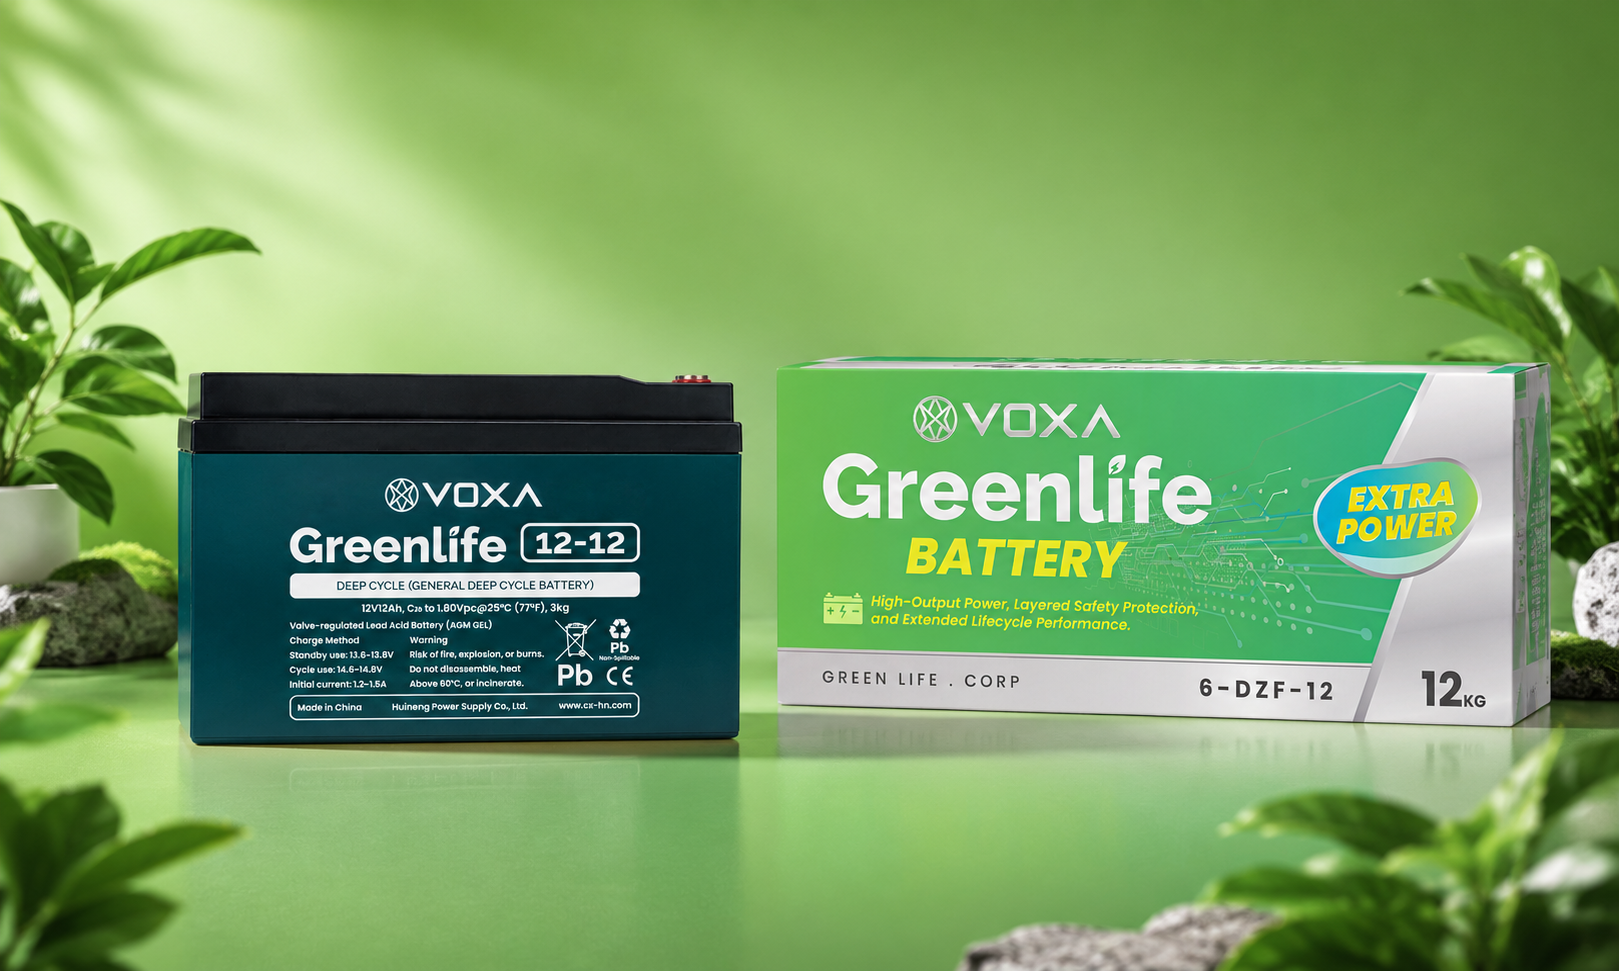
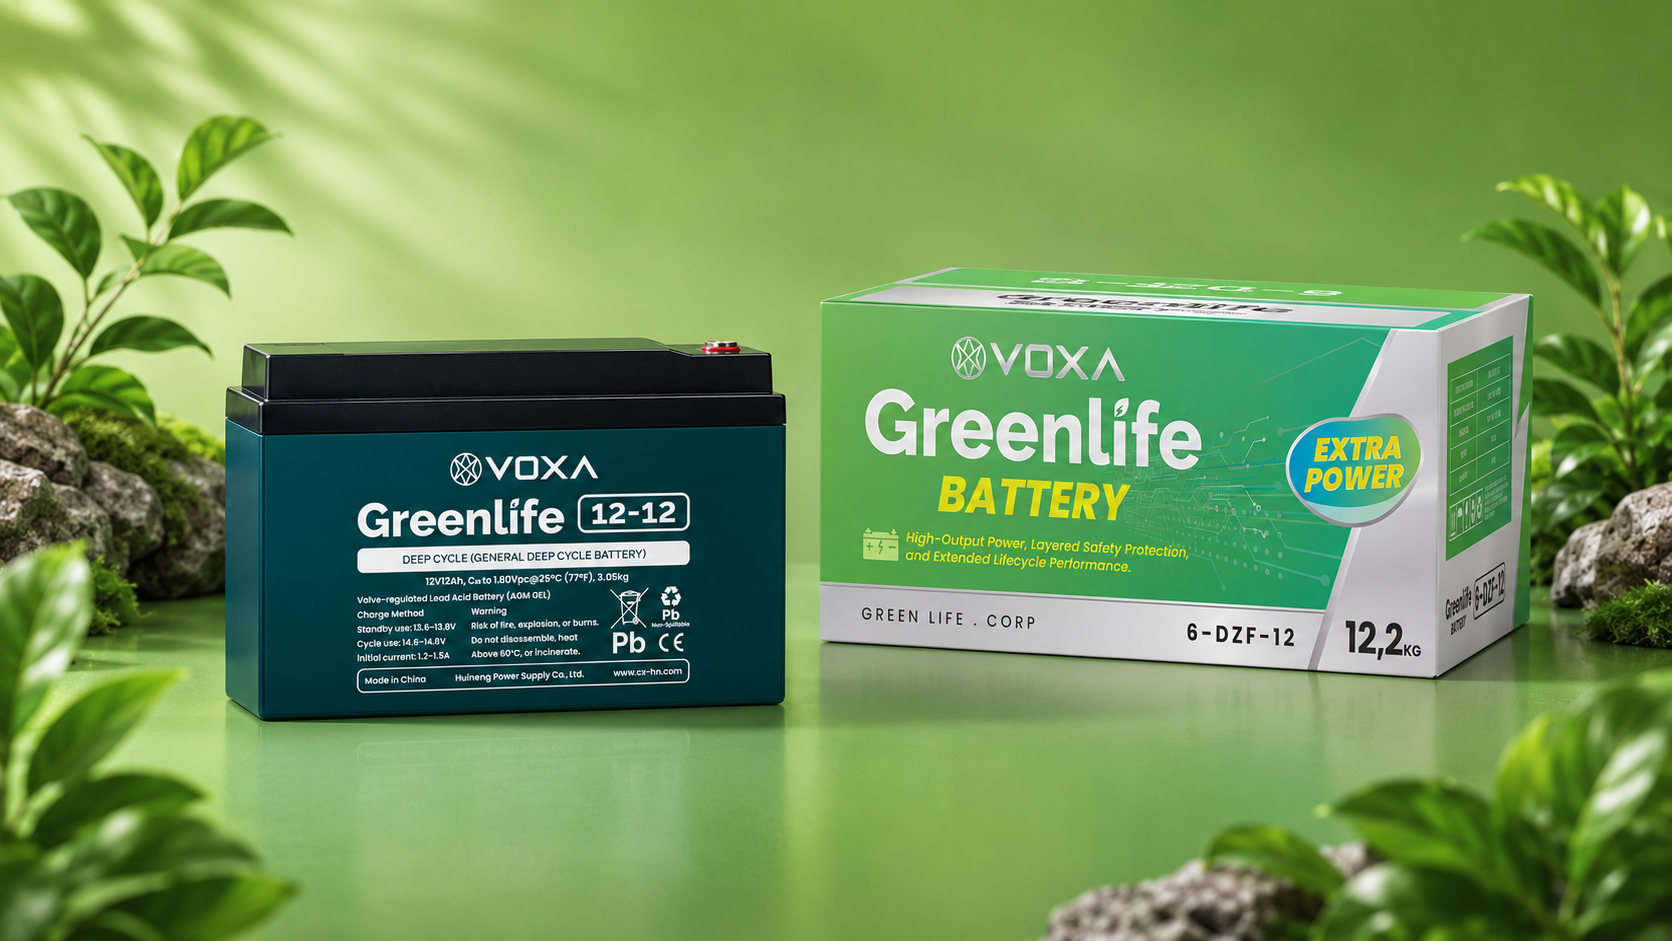
content+media(products): rename 3kg -> 3,05kg dan refresh foto 3 varian
- Varian 3kg -> 3,05kg di semua touchpoint (meta, intro, alt, tag, h3,
  power-note, tabel, FAQ)
- Foto baru 3 varian pas match label produk baru:
  * 3,05kg: label 3,05kg, box 12,2 KG (v=3)
  * 3,45kg: label 3,45kg, box 13,8 KG (v=4)
  * 3,75kg: label 3,75kg, box 15 KG (v=3)
- Nama file PNG tetap (internal, tidak user-facing)

diff --git a/index.html b/index.html
@@ -4,7 +4,7 @@
 <meta charset="utf-8" />
 <meta name="viewport" content="width=device-width,initial-scale=1" />
 <title>Baterai Greenlife 12V — Ganti Baterai Sepeda Listrik yang Cocok | VOXA</title>
-<meta name="description" content="Baterai Greenlife 12V untuk sepeda listrik: pilihan 12AH hingga 20AH, tersedia varian 3kg, 3,45kg, 3,75kg, dan 5,2kg. Konsultasi gratis sebelum beli — pastikan cocok dengan sepeda listrikmu." />
+<meta name="description" content="Baterai Greenlife 12V untuk sepeda listrik: pilihan 12AH hingga 20AH, tersedia varian 3,05kg, 3,45kg, 3,75kg, dan 5,2kg. Konsultasi gratis sebelum beli — pastikan cocok dengan sepeda listrikmu." />
 <link rel="preconnect" href="https://fonts.googleapis.com" />
 <link rel="preconnect" href="https://fonts.gstatic.com" crossorigin />
 <link href="https://fonts.googleapis.com/css2?family=Plus+Jakarta+Sans:wght@400;500;600;700;800&family=Fraunces:ital,wght@0,600;0,900;1,600;1,900&family=Geist+Mono:wght@400;500&display=swap" rel="stylesheet" />
@@ -376,7 +376,7 @@ footer{padding:56px 0 40px;background:var(--forest);color:rgba(255,255,255,.72)}
         <a href="#produk" class="btn btn-ghost-dark btn-lg">Lihat Pilihan Produk</a>
       </div>
       <div class="hero-tag">
-        4 varian tersedia: 3kg · 3,45kg · 3,75kg (12AH) &amp; 5,2kg (20AH)
+        4 varian tersedia: 3,05kg · 3,45kg · 3,75kg (12AH) &amp; 5,2kg (20AH)
       </div>
     </div>
     <!-- PLACEHOLDER: main product image 1:1 dengan radial glow backdrop (desktop-only, mobile version di dalam text col) -->
@@ -476,14 +476,14 @@ footer{padding:56px 0 40px;background:var(--forest);color:rgba(255,255,255,.72)}
       <!-- Produk 1 -->
       <div class="product-card">
         <div class="visual has-real-photo">
-          <img src="img/battery-3kg-real.png?v=2" alt="Baterai Greenlife 3kg 12V 12AH dengan kemasan boks" loading="lazy" />
+          <img src="img/battery-3kg-real.png?v=3" alt="Baterai Greenlife 3,05kg 12V 12AH dengan kemasan boks" loading="lazy" />
         </div>
         <div class="tag-row">
           <span class="tag">12V</span>
           <span class="tag amber">12AH</span>
-          <span class="tag">3kg</span>
+          <span class="tag">3,05kg</span>
         </div>
-        <h3>Greenlife 3kg 12V 12AH</h3>
+        <h3>Greenlife 3,05kg 12V 12AH</h3>
         <p>Pilihan baterai 12V 12AH dengan bobot lebih ringan, cocok untuk kebutuhan penggantian baterai sepeda listrik dengan ruang baterai yang sesuai.</p>
         <div class="power-rec">
           <span class="power-icon">⚡</span>
@@ -509,7 +509,7 @@ footer{padding:56px 0 40px;background:var(--forest);color:rgba(255,255,255,.72)}
       <!-- Produk 2 -->
       <div class="product-card">
         <div class="visual has-real-photo">
-          <img src="img/battery-34kg-real.png?v=2" alt="Baterai Greenlife 3,45kg 12V 12AH dengan kemasan boks" loading="lazy" />
+          <img src="img/battery-34kg-real.png?v=4" alt="Baterai Greenlife 3,45kg 12V 12AH dengan kemasan boks" loading="lazy" />
         </div>
         <div class="tag-row">
           <span class="tag">12V</span>
@@ -517,7 +517,7 @@ footer{padding:56px 0 40px;background:var(--forest);color:rgba(255,255,255,.72)}
           <span class="tag">3,45kg</span>
         </div>
         <h3>Greenlife 3,45kg 12V 12AH</h3>
-        <p>Baterai 12V 12AH dengan bobot lebih berat dibanding varian 3kg. Cocok untuk pengguna yang ingin pilihan 12AH dengan konstruksi yang terasa lebih solid.</p>
+        <p>Baterai 12V 12AH dengan bobot lebih berat dibanding varian 3,05kg. Cocok untuk pengguna yang ingin pilihan 12AH dengan konstruksi yang terasa lebih solid.</p>
         <div class="power-rec">
           <span class="power-icon">⚡</span>
           <div class="power-body">
@@ -542,7 +542,7 @@ footer{padding:56px 0 40px;background:var(--forest);color:rgba(255,255,255,.72)}
       <!-- Produk 3 -->
       <div class="product-card">
         <div class="visual has-real-photo">
-          <img src="img/battery-37kg-real.png?v=2" alt="Baterai Greenlife 3,75kg 12V 12AH dengan kemasan boks" loading="lazy" />
+          <img src="img/battery-37kg-real.png?v=3" alt="Baterai Greenlife 3,75kg 12V 12AH dengan kemasan boks" loading="lazy" />
         </div>
         <div class="tag-row">
           <span class="tag">12V</span>
@@ -633,10 +633,10 @@ footer{padding:56px 0 40px;background:var(--forest);color:rgba(255,255,255,.72)}
         </thead>
         <tbody>
           <tr>
-            <td class="prod-name">Greenlife 3kg</td>
+            <td class="prod-name">Greenlife 3,05kg</td>
             <td>12V</td>
             <td>12AH</td>
-            <td>3kg</td>
+            <td>3,05kg</td>
             <td>Motor sepeda &lt; 300W</td>
           </tr>
           <tr>
@@ -992,7 +992,7 @@ footer{padding:56px 0 40px;background:var(--forest);color:rgba(255,255,255,.72)}
 
       <details>
         <summary>Motor sepeda saya berapa watt, cocok varian mana? <span class="plus">+</span></summary>
-        <p>Panduan sederhana berdasarkan daya motor sepeda listrik: <strong>&lt; 300W</strong> pas dengan Greenlife 3kg, <strong>350W ke atas</strong> lebih pas ke 3,45kg, <strong>350W–500W</strong> ke 3,75kg (juga bisa untuk 350W — lebih powerful dari 3,45kg), dan <strong>500W–650W</strong> ke varian 20AH 5,2kg. Kalau nggak yakin daya motor sepedamu, kirim foto label motornya via WhatsApp — kami bantu cek.</p>
+        <p>Panduan sederhana berdasarkan daya motor sepeda listrik: <strong>&lt; 300W</strong> pas dengan Greenlife 3,05kg, <strong>350W ke atas</strong> lebih pas ke 3,45kg, <strong>350W–500W</strong> ke 3,75kg (juga bisa untuk 350W — lebih powerful dari 3,45kg), dan <strong>500W–650W</strong> ke varian 20AH 5,2kg. Kalau nggak yakin daya motor sepedamu, kirim foto label motornya via WhatsApp — kami bantu cek.</p>
       </details>
 
       <details>
